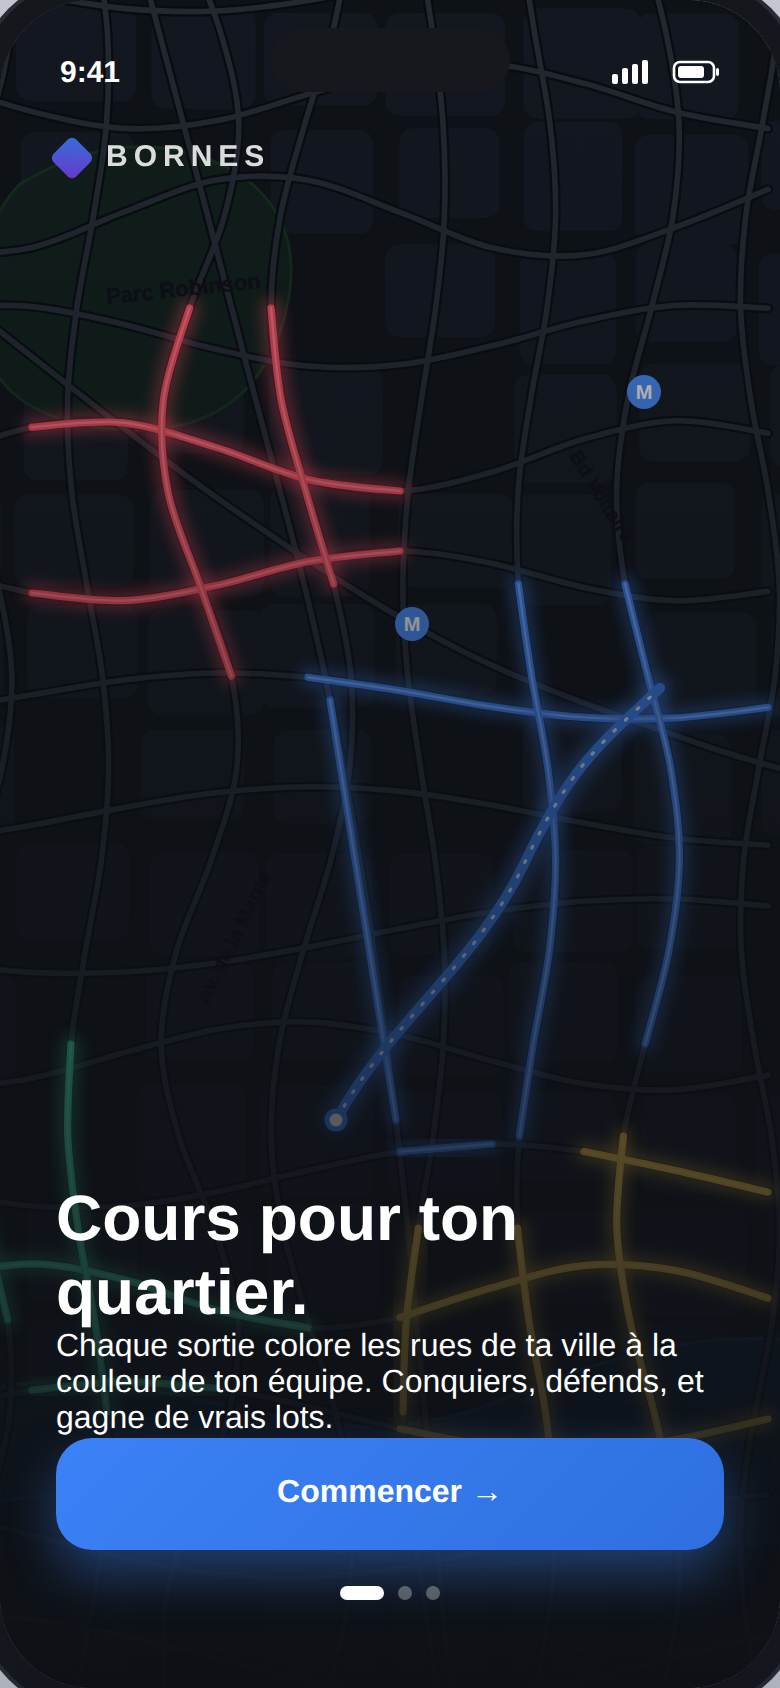
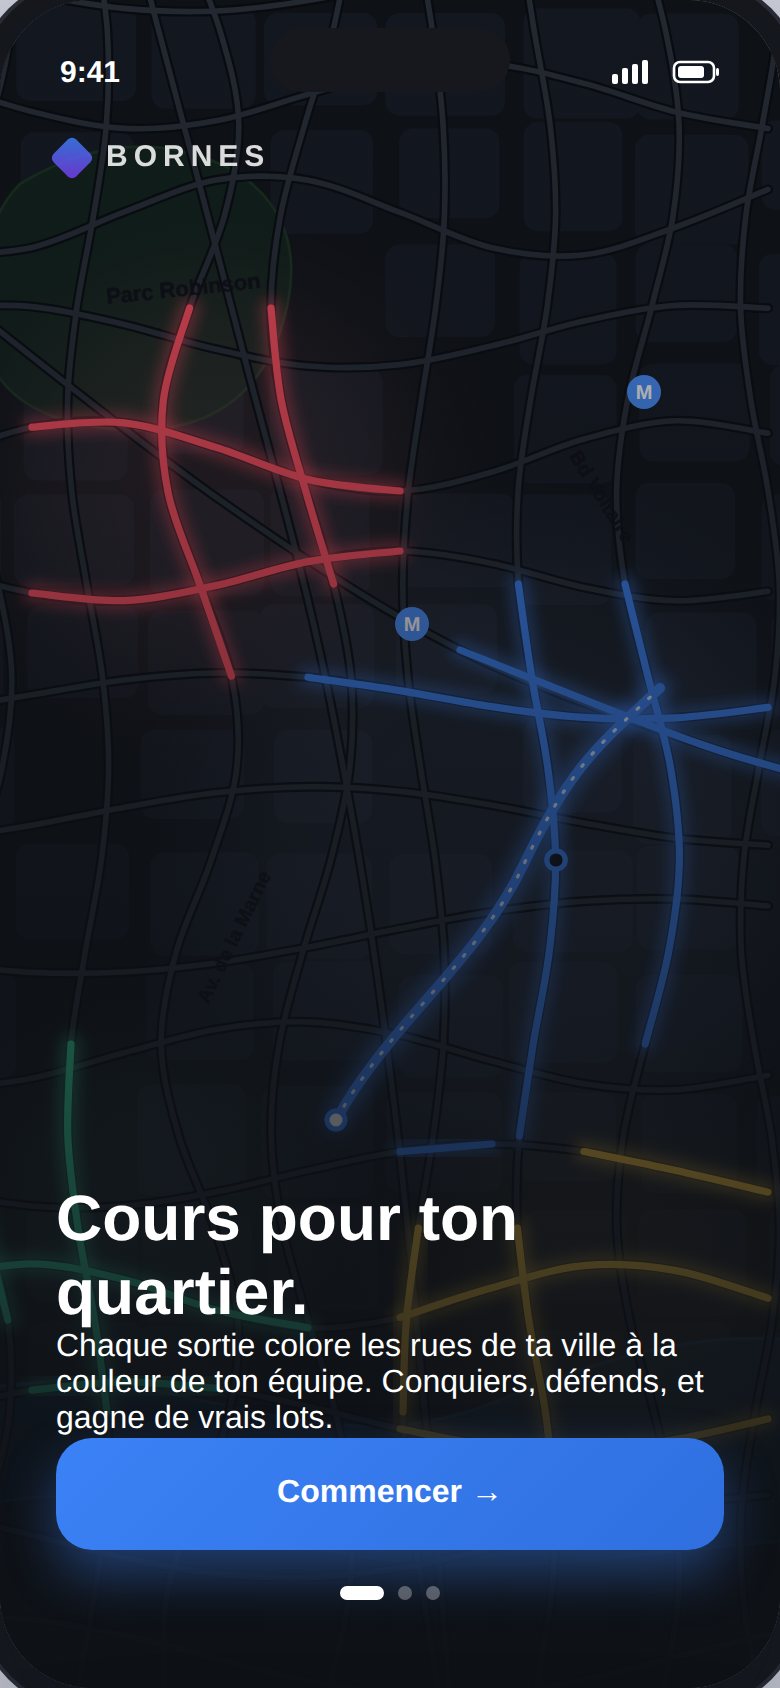
design: régénération des 12 écrans au style final
- Map (clair): teintes de zone douces + rues colorées plus nettes +
  nœuds d'équipe (aligné sur la référence validée)
- Run actif (sombre immersif): curseur flèche directionnelle + traînée
  comète + territoire en veines + HUD (distance/allure/peint)
- ambiance: app en clair, run en sombre

diff --git a/design/mockups/bornes-app.html b/design/mockups/bornes-app.html
@@ -107,6 +107,14 @@
   .run-ctrl{position:absolute;bottom:46px;left:0;right:0;z-index:35;display:flex;justify-content:center;align-items:center;gap:26px;}
   .run-ctrl .rb{width:64px;height:64px;border-radius:50%;background:#fff;display:flex;align-items:center;justify-content:center;box-shadow:0 10px 24px rgba(16,24,40,.18);}
   .run-ctrl .stop{width:88px;height:88px;border-radius:50%;background:linear-gradient(160deg,var(--red),#e23a4a);box-shadow:0 14px 30px rgba(255,77,94,.5);display:flex;align-items:center;justify-content:center;color:#fff;font-weight:800;font-size:14px;}
+  .phone.dark .run-top{background:rgba(22,26,33,.86);box-shadow:0 12px 30px rgba(0,0,0,.45);}
+  .phone.dark .run-grid,.phone.dark .run-grid .g{border-color:rgba(255,255,255,.08);}
+  .phone.dark .run-grid .g span{color:#9aa3b2;}
+  .curAB{position:absolute;z-index:34;transform:translate(-50%,-50%);}
+  .curAB .halo{position:absolute;left:50%;top:50%;transform:translate(-50%,-50%);width:78px;height:78px;border-radius:50%;background:radial-gradient(circle,rgba(59,130,246,.5),rgba(59,130,246,.12) 46%,transparent 70%);}
+  .curAB .nav{position:absolute;left:50%;top:50%;transform:translate(-50%,-50%) rotate(-30deg);width:34px;height:34px;border-radius:50%;background:#3B82F6;box-shadow:0 0 0 4px #fff,0 6px 14px rgba(0,0,0,.45),0 0 16px rgba(59,130,246,.85);display:flex;align-items:center;justify-content:center;}
+  .tipchip{position:absolute;z-index:34;background:rgba(22,26,33,.92);border:1px solid rgba(255,255,255,.12);border-radius:13px;padding:8px 12px;font-size:12px;font-weight:700;color:#eaf2ff;box-shadow:0 8px 20px rgba(0,0,0,.4);}
+  .tipchip b{color:#6aa6ff;}
 
   /* challenge detail */
   .chero{border-radius:24px;padding:20px;color:#fff;position:relative;overflow:hidden;background:linear-gradient(135deg,#3B82F6,#7c3aed);box-shadow:0 16px 34px rgba(59,130,246,.35);}
@@ -314,17 +322,18 @@
 
 <!-- 04 RUN ACTIF -->
 <div class="cap">04 · Run actif (live)</div>
-<div class="phone" id="s-run">
-  <div class="notch"></div>
-  <div class="status"><span>9:41</span><div class="dots">__SIG__</div></div>
+<div class="phone dark" id="s-run">
   <div class="mapwrap"><svg id="run-svg" viewBox="0 0 390 844" preserveAspectRatio="xMidYMid slice"></svg></div>
-  <div class="me-dot" style="left:262px;top:432px;"></div>
+  <div class="curAB" style="left:330px;top:360px;"><div class="halo"></div><div class="nav"><svg width="16" height="16" viewBox="0 0 24 24"><path d="M12 3l7 16-7-4-7 4z" fill="#fff"/></svg></div></div>
+  <div class="tipchip" style="left:196px;top:392px;">tu peins <b>Rue de Paris</b> ✦ +90 m</div>
+  <div class="notch"></div>
+  <div class="status w"><span>9:41</span><div class="dots">__SIG_W__</div></div>
   <div class="run-top">
-    <div class="run-time">00:32:14 <small></small></div>
+    <div class="run-time">00:32:14</div>
     <div class="run-grid">
       <div class="g"><b>5,42<span class="u"> km</span></b><span>Distance</span></div>
       <div class="g"><b>5:56<span class="u"> /km</span></b><span>Allure</span></div>
-      <div class="g"><b style="color:#3B82F6">+12</b><span>Rues prises</span></div>
+      <div class="g"><b style="color:#6aa6ff">+1,9<span class="u"> km</span></b><span>Peint</span></div>
     </div>
   </div>
   <div class="run-live"><span class="rec"></span>EN COURS · Asnières passe au bleu</div>
@@ -533,6 +542,7 @@ function buildStreetMap(id,dark){
     <filter id="halo_${id}" x="-20%" y="-20%" width="140%" height="140%"><feMorphology operator="dilate" radius="1.6" in="SourceAlpha"/><feFlood flood-color="${dark?'#0E1116':'#fff'}"/><feComposite in2="SourceAlpha" operator="in" result="ha"/><feMerge><feMergeNode in="ha"/><feMergeNode in="ha"/></feMerge></filter>
     <filter id="glow_${id}" x="-60%" y="-60%" width="220%" height="220%"><feGaussianBlur stdDeviation="3.4"/></filter>
     <filter id="run_${id}" x="-60%" y="-60%" width="220%" height="220%"><feGaussianBlur stdDeviation="4.2"/></filter>
+    <filter id="zt_${id}" x="-60%" y="-60%" width="220%" height="220%"><feGaussianBlur stdDeviation="30"/></filter>
   </defs>`;
   h+=`<rect width="390" height="844" fill="${C.land}"/>`;
   // subtle parcels
@@ -551,13 +561,17 @@ function buildStreetMap(id,dark){
   const clusters=[{cx:255,cy:430,r:178,team:'blue'},{cx:108,cy:248,r:120,team:'red'},{cx:302,cy:662,r:120,team:'yellow'},{cx:74,cy:612,r:108,team:'green'}];
   const regionAt=(x,y)=>{let b=null,bc=0;for(const c of clusters){const d=Math.hypot(x-c.cx,y-c.cy);if(d>c.r)continue;const cl=1-d/c.r;if(cl>bc){bc=cl;b=c;}}return b?{team:b.team,close:bc}:null;};
 
+  // soft territory tint (wash under the streets)
+  for(const c of clusters){const pa=TEAM[c.team][1];h+=`<circle cx="${c.cx}" cy="${c.cy}" r="${(c.r*0.82).toFixed(0)}" fill="${pa}" opacity="${dark?0.10:0.20}" filter="url(#zt_${id})"/>`;}
+
   // neutral base (casing then road) — the readable map
   let base='',road='';
   for(const pts of streets){const d=smooth(pts);base+=`<path d="${d}" fill="none" stroke="${C.roadCase}" stroke-width="5" stroke-linecap="round" stroke-linejoin="round"/>`;road+=`<path d="${d}" fill="none" stroke="${C.road}" stroke-width="2.8" stroke-linecap="round" stroke-linejoin="round"/>`;}
   h+=base+road;
 
   // captured stretches glow on top (Strava-like)
-  let glow='';
+  const hw=dark?10:7, ho=dark?0.42:0.16, cw=dark?3.6:2.8;
+  let glow='',nodes='';
   for(const pts of streets){
     const regs=pts.map(p=>regionAt(p.x,p.y));
     let i=0;
@@ -569,16 +583,17 @@ function buildStreetMap(id,dark){
         const sub=pts.slice(i,j+1);
         let avg=0; for(let k=i;k<=j;k++) avg+=regs[k].close; avg/=(j-i+1);
         if(rnd() < 0.42+0.55*avg){
-          const v=TEAM[r.team][0], pa=TEAM[r.team][1], d=smooth(sub);
-          glow+=`<path d="${d}" fill="none" stroke="${v}" stroke-opacity="${dark?0.42:0.30}" stroke-width="10" stroke-linecap="round" stroke-linejoin="round" filter="url(#glow_${id})"/>`;
-          glow+=`<path d="${d}" fill="none" stroke="${v}" stroke-width="3.6" stroke-linecap="round" stroke-linejoin="round"/>`;
-          glow+=`<path d="${d}" fill="none" stroke="${pa}" stroke-width="1.2" stroke-opacity=".6" stroke-linecap="round" stroke-linejoin="round"/>`;
+          const v=TEAM[r.team][0], d=smooth(sub);
+          glow+=`<path d="${d}" fill="none" stroke="${v}" stroke-opacity="${ho}" stroke-width="${hw}" stroke-linecap="round" stroke-linejoin="round" filter="url(#glow_${id})"/>`;
+          glow+=`<path d="${d}" fill="none" stroke="${v}" stroke-width="${cw}" stroke-linecap="round" stroke-linejoin="round"/>`;
+          // occasional team check-in node
+          if(avg>0.5 && rnd()<0.16){const mp=sub[(sub.length/2)|0];nodes+=`<circle cx="${mp.x.toFixed(0)}" cy="${mp.y.toFixed(0)}" r="4.6" fill="${dark?'#0E1116':'#fff'}" stroke="${v}" stroke-width="2.6"/>`;}
         }
       }
       i=j+1;
     }
   }
-  h+=glow;
+  h+=glow+nodes;
 
   // live run route (bright trace)
   const ROUTE='M 168 560 C 196 510, 238 482, 262 432 S 300 372, 330 344';
@@ -594,8 +609,45 @@ function buildStreetMap(id,dark){
   h+=metro(206,312)+metro(322,196);
   s.innerHTML=h;
 }
+// dark Trail-Paint map for the active run (veins + comet trail to cursor)
+function buildRunMap(id){
+  const s=document.getElementById(id);if(!s)return;const rnd=makeRng(913);
+  const C={land:'#0E1116',block:'#141821',roadCase:'#070a0e',road:'#222932',water:'#0f2133',waterEdge:'#163049',park:'#10201a',parkEdge:'#18301f',label:'#7e8794',metro:'#4a90ff'};
+  let h=`<defs><filter id="hlr" x="-20%" y="-20%" width="140%" height="140%"><feMorphology operator="dilate" radius="1.6" in="SourceAlpha"/><feFlood flood-color="#0E1116"/><feComposite in2="SourceAlpha" operator="in" result="ha"/><feMerge><feMergeNode in="ha"/><feMergeNode in="ha"/></feMerge></filter><filter id="veinr" x="-80%" y="-80%" width="260%" height="260%"><feGaussianBlur stdDeviation="6"/></filter><filter id="trailr" x="-70%" y="-70%" width="240%" height="240%"><feGaussianBlur stdDeviation="5"/></filter><filter id="hotr" x="-70%" y="-70%" width="240%" height="240%"><feGaussianBlur stdDeviation="3"/></filter></defs>`;
+  h+=`<rect width="390" height="844" fill="${C.land}"/>`;
+  for(let gy=-1;gy<14;gy++)for(let gx=-1;gx<7;gx++){if(rnd()<0.2)continue;const x=gx*62+rnd()*8+6,y=gy*60+rnd()*8,w=48+rnd()*12,ht=44+rnd()*12;h+=`<rect x="${x.toFixed(1)}" y="${y.toFixed(1)}" width="${w.toFixed(1)}" height="${ht.toFixed(1)}" rx="7" fill="${C.block}"/>`;}
+  h+=`<path d="M10 92 q56 -34 108 -6 q40 26 22 80 q-20 56 -88 48 q-66 -8 -62 -66 q2 -38 20 -56z" fill="${C.park}" stroke="${C.parkEdge}" stroke-width="1.4"/>`;
+  h+=`<path d="M-30 700 C 80 666, 150 742, 250 700 S 430 656, 470 712 L470 770 C 360 760, 250 806, 130 766 S -30 768, -30 752 z" fill="${C.water}" stroke="${C.waterEdge}" stroke-width="1.5"/>`;
+  const streets=[];
+  for(let r=-12;r<=858;r+=60){const amp=7+rnd()*15,fq=0.010+rnd()*0.012,ph=rnd()*7;const pts=[];for(let x=-30;x<=420;x+=46)pts.push({x,y:r+Math.sin(x*fq+ph)*amp});streets.push(pts);}
+  for(let c=-12;c<=402;c+=56){const amp=7+rnd()*15,fq=0.010+rnd()*0.012,ph=rnd()*7;const pts=[];for(let y=-30;y<=882;y+=46)pts.push({x:c+Math.sin(y*fq+ph)*amp,y});streets.push(pts);}
+  const clusters=[{cx:255,cy:430,r:178,team:'blue'},{cx:108,cy:248,r:120,team:'red'},{cx:302,cy:662,r:120,team:'yellow'},{cx:74,cy:612,r:108,team:'green'}];
+  const regionAt=(x,y)=>{let b=null,bc=0;for(const c of clusters){const d=Math.hypot(x-c.cx,y-c.cy);if(d>c.r)continue;const cl=1-d/c.r;if(cl>bc){bc=cl;b=c;}}return b?{team:b.team,close:bc}:null;};
+  let base='',road='';
+  for(const pts of streets){const d=smooth(pts);base+=`<path d="${d}" fill="none" stroke="${C.roadCase}" stroke-width="4.5" stroke-linecap="round" stroke-linejoin="round"/>`;road+=`<path d="${d}" fill="none" stroke="${C.road}" stroke-width="2.4" stroke-linecap="round" stroke-linejoin="round"/>`;}
+  h+=base+road;
+  let halo='',cores='';
+  for(const pts of streets){const regs=pts.map(p=>regionAt(p.x,p.y));let i=0;
+    while(i<pts.length){const r=regs[i];if(!r){i++;continue;}let j=i;while(j+1<pts.length&&regs[j+1]&&regs[j+1].team===r.team)j++;
+      if(j-i>=1){const sub=pts.slice(i,j+1);let avg=0;for(let k=i;k<=j;k++)avg+=regs[k].close;avg/=(j-i+1);
+        if(rnd()<0.4+0.55*avg){const v=TEAM[r.team][0],d=smooth(sub);
+          halo+=`<path d="${d}" fill="none" stroke="${v}" stroke-opacity="${(0.16+0.36*avg).toFixed(2)}" stroke-width="11" stroke-linecap="round" stroke-linejoin="round" filter="url(#veinr)"/>`;
+          cores+=`<path d="${d}" fill="none" stroke="${v}" stroke-opacity="${(0.32+0.4*avg).toFixed(2)}" stroke-width="2.2" stroke-linecap="round" stroke-linejoin="round"/>`;}}
+      i=j+1;}}
+  h+=halo+cores;
+  const T='M 150 600 C 180 540, 220 510, 250 470 S 300 410, 330 360';
+  const HOT='M 298 414 C 312 392, 322 378, 330 360';
+  h+=`<path d="${T}" fill="none" stroke="#3B82F6" stroke-opacity=".5" stroke-width="13" stroke-linecap="round" filter="url(#trailr)"/>`;
+  h+=`<path d="${T}" fill="none" stroke="#6aa6ff" stroke-width="4.5" stroke-linecap="round" stroke-linejoin="round"/>`;
+  h+=`<path d="${HOT}" fill="none" stroke="#fff" stroke-width="5" stroke-opacity=".9" stroke-linecap="round" filter="url(#hotr)"/>`;
+  h+=`<path d="${T}" fill="none" stroke="#eaf2ff" stroke-width="1.6" stroke-opacity=".8" stroke-dasharray="1 8" stroke-linecap="round"/>`;
+  h+=`<circle cx="150" cy="600" r="4" fill="#0E1116" stroke="#6aa6ff" stroke-width="2.4"/>`;
+  const lab=(x,y,t,r,sz)=>`<text x="${x}" y="${y}" font-size="${sz||10.5}" font-weight="600" fill="${C.label}" text-anchor="middle" transform="rotate(${r} ${x} ${y})" filter="url(#hlr)">${t}</text>`;
+  h+=lab(92,148,'Parc Robinson',-6,11)+lab(170,742,'La Seine',-6,11);
+  s.innerHTML=h;
+}
 buildStreetMap('map-svg',false);
-buildStreetMap('run-svg',false);
+buildRunMap('run-svg');
 buildStreetMap('onb-map',true);
 
 /* end-of-run mini wave */